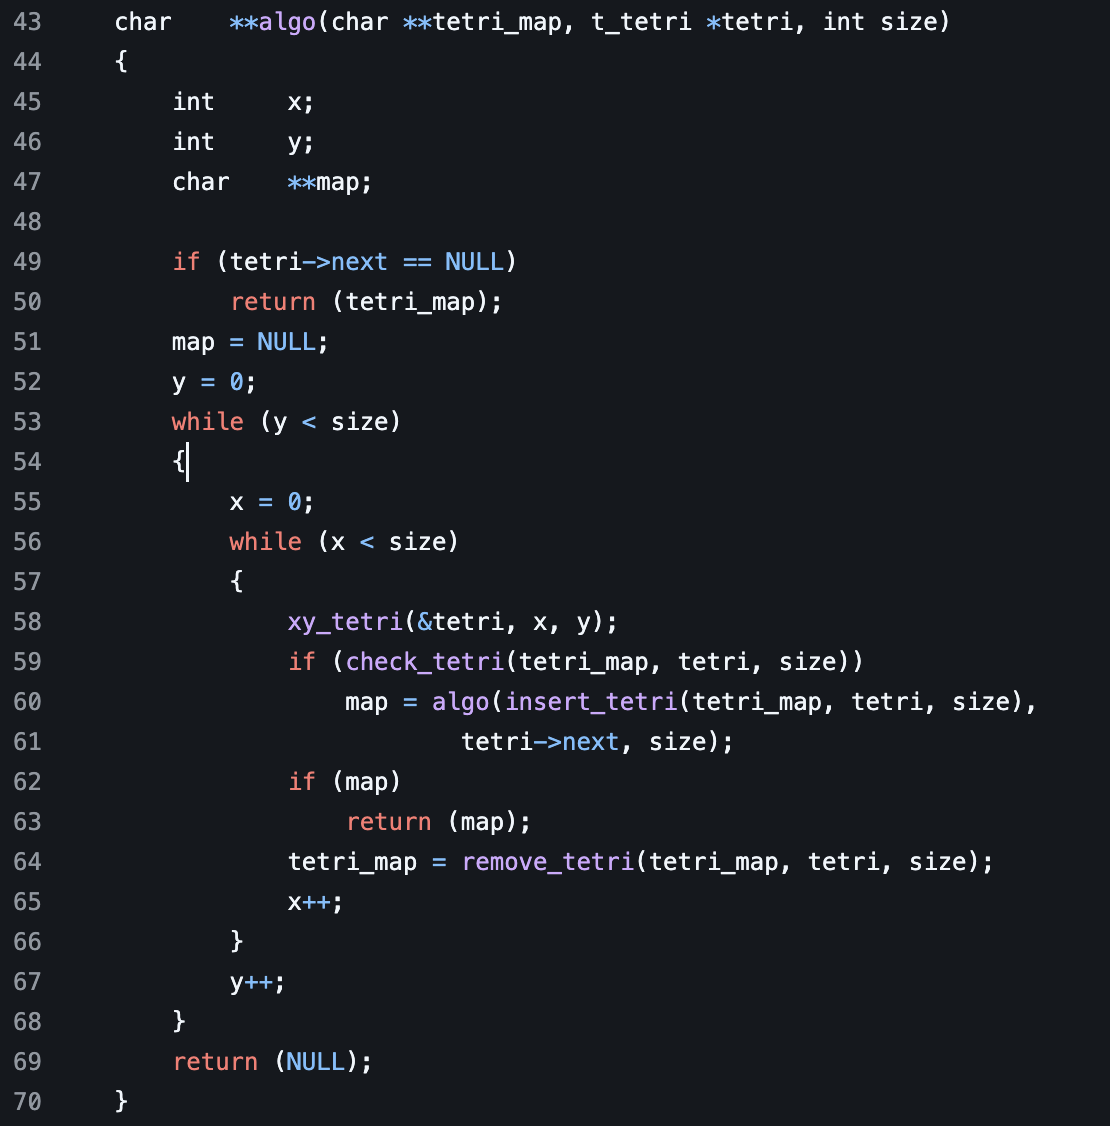
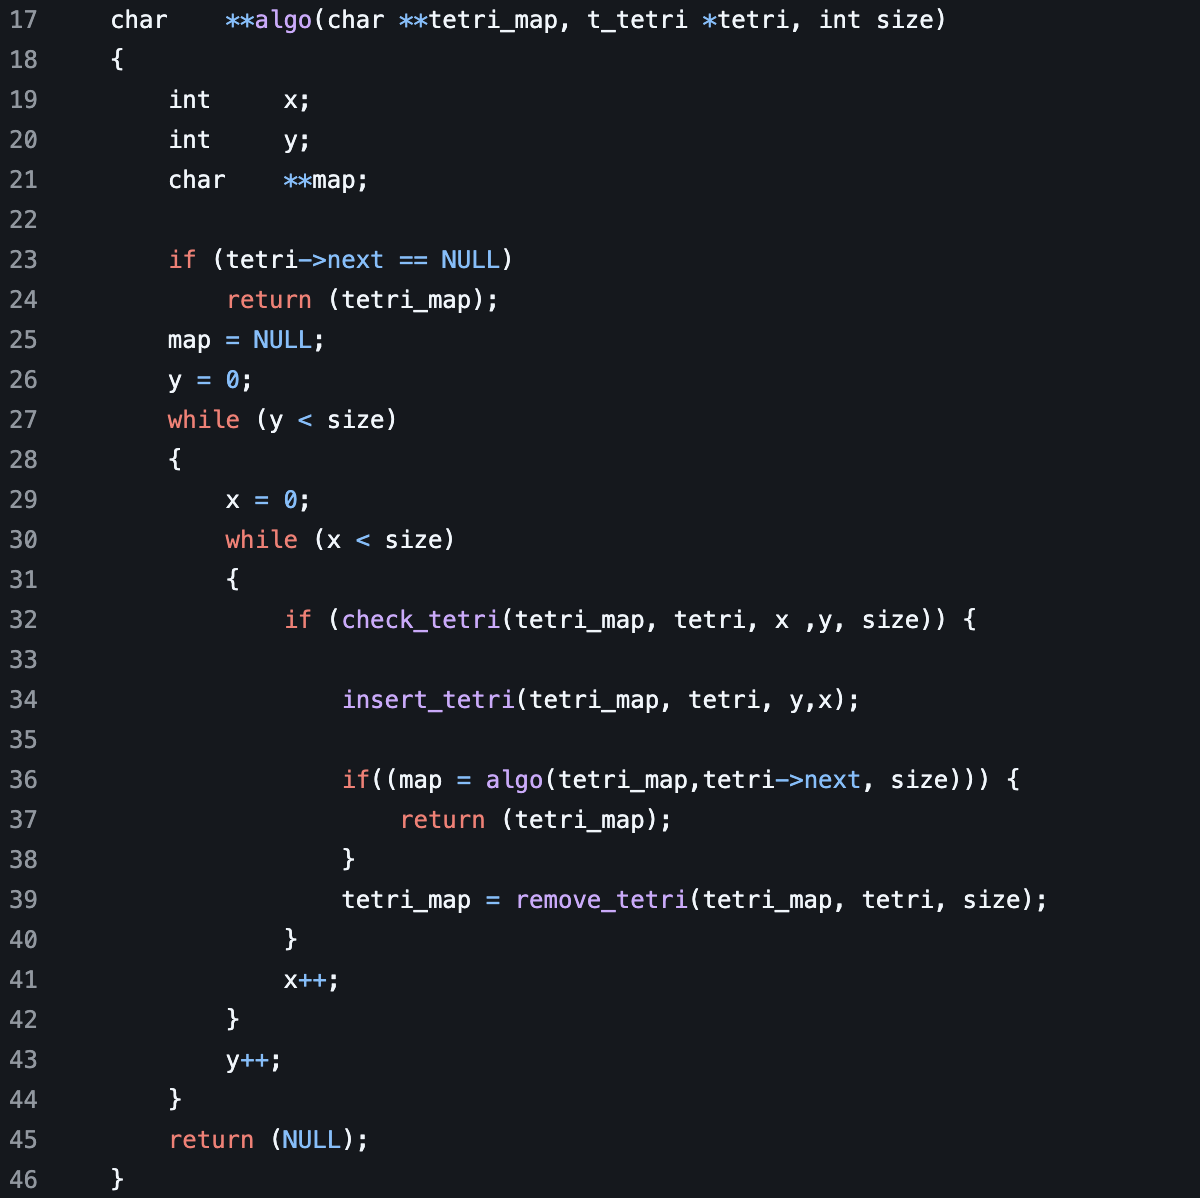
removing xy_tetri, updating algo

diff --git a/fillit.html b/fillit.html
@@ -119,10 +119,6 @@
 -->
 		<a href="#algo">algo</a>
 -->
-		<a href="#xy_tetri">xy_tetri (*deprecated)</a>
--->
-		<a href="#algo-2">back to algo</a>
--->
 		<a href="#check_tetri">check_tetri</a>
 -->
 		<a href="#algo-3">back to algo</a>
@@ -445,31 +441,13 @@
 				
 				<div id="algo">
 <h2> algo </h2>
-<p> This function returns a multidimensional character array. It takes three parameters. The first parameter character pointer to a pointer called tetri_map. The second is a pointer to a t_tetri struct. The third one is an integer called size. We then declare three variables two integers called x, then y. Then a character pointer to a pointer called map. Next, we check to see if the next value in the tetri struct is equal to NULL. If it is we return the tetri_map from the function. This is an important check as it acts as what we call a base case in recursion. This check is used to see if all the tetrimions have been placed or not. Next, we initialize map to NULL, then y to 0. Next, we start our while loop with the condition that y is less than size. We then set the value of x to 0. Then we loop while x is less than size. We call our xy_tetri function next with the reference is memory to tetri passed as the first parameter. Then x followed by y for the second and third. </p>
+<p> This function returns a multidimensional character array. It takes three parameters. The first parameter character pointer to a pointer called tetri_map. The second is a pointer to a t_tetri struct. The third one is an integer called size. We then declare three variables two integers called x, then y. Then a character pointer to a pointer called map. Next, we check to see if the next value in the tetri struct is equal to NULL. If it is we return the tetri_map from the function. This is an important check as it acts as what we call a base case in recursion. This check is used to see if all the tetrimions have been placed or not. Next, we initialize map to NULL, then y to 0. Next, we start our while loop with the condition that y is less than size. We then set the value of x to 0. Then we loop while x is less than size. We then continue to call the check_tetri function. If this function we are about to explain returns 1, we then move on to the insert_tetri function then call the function recursively. If it returns 0, we skip this, then we continue to set tetri_map equal to the return value of remove_tetri. After this we increment x  </p>
 				</div>
 				
 				<div>
 					<img src="./imgs/fillit/algo.png" alt=""> </img>
 				</div>
-				
-				<div id="xy_tetri">
-<h2> xy_tetri </h2>
-<p> This function is used to place the tetrimino into it's top left spot from where it was parsed. First we declare the function, which is a void function. Next we pass three parameters. One pointer to a pointer of a t_tetri called tetri. Next, an integer called x than an integer called y. After that we declare three integers. We call these integers pos_x, pos_y, then i. After we initialized these integers. We set i equal to 0, pos_x equal to 100, then pos_y equal to 100. After this, we start a while loop with the condition of i being less than 4. After that, we then check the if the value of the indexed position of the x array stored in the teteri struct is less than the pos_x. If it is we set pos_x to that value. Next we check if the value of the indexed position of the y array stored in the tetri struct is less than pos_y. If it is, we then set pos_y to that value. After that, we increment i. Once that is finished, we subtract 1 from i then begin a loop. We use this while loop with the condition of i is greater than or equal to 0. We update the tetri struct data integer array of x at the i index to the value of this value subtracted from the pos_x added to the value of x passed in the parameter. This ensures that we move the x value to the top left while maintaining the spot we are checking on the board. Next we update the tetri struct data integer array of y at the i index to the value of this value subtracted by pos_y added to y. </p>
-				</div>
-				
-				<div>
-					<img src="./imgs/fillit/xy_tetri.png" alt=""> </img>
-				</div>
-				
-				<div id="algo-2">
-<h2> back to algo </h2>
-<p> After out tetri is in the proper position. We then continue to call the check_tetri function. If this function we are about to explain returns 1, we then move on to call the function recursively. If it returns 0, we skip this, then move to check if map is null or not. If it is not null, we then return map otherwise we will continue to set tetri_map equal to the return value of remove_tetri. After this we increment x </p>
-
-				</div>
-				
-				<div>
-					<img src="./imgs/fillit/algo.png" alt=""> </img>
-				</div>
+			
 				
 				<div id="check_tetri">
 <h2> check_tetri </h2>
@@ -488,7 +466,7 @@
 				
 				<div id="algo-3">
 <h2> back to algo </h2>
-<p> Depending on the return value of the function above, we decide whether to call the algo function. If we find a valid place for our tetri we then set the map equal to the return value of algo. We pass the return value of insert_tetri with tetri_map, tetri, size function of which we shall cover next. This function places the tetri on the map. Then, for the second parameter, we pass the value of the pointer to the next data type within the tetri struct. This value points to the next struct in the linked list. For the final parameter we pass size. </p>
+<p> Depending on the return value of the function above, we decide whether to call the algo function. If we find a valid place for our tetri we then call the insert tetri_function. Next we recsurvily call the algo function with three paramters. One is the the value of tetri_map. Then, for the second parameter, we pass the value of the pointer to the next data type within the tetri struct. This value points to the next struct in the linked list. For the final parameter we pass size. We then set map equal to the return value. if map is not null we have hit our base case then return tetri_map </p>
 </div>
 				
 				<div>
@@ -506,7 +484,7 @@
 				
 				<div id="algo-4">
 <h2> back to algo </h2>
-<p> Again, depending on the return value of check_tetri we either recursively call the function or we do not. Either way, we move to check if map is null or not, if it is not null, we return it. We then set the value of tetri_map to the value of remove_tetri which effectively removes the tetri that was placed on the board.</p>
+<p> Again, depending on the return value of check_tetri we either recursively call the function or we do not. If not, We then set the value of tetri_map to the value of remove_tetri which effectively removes the tetri that was placed on the board.</p>
 				</div>
 				
 				<div>
